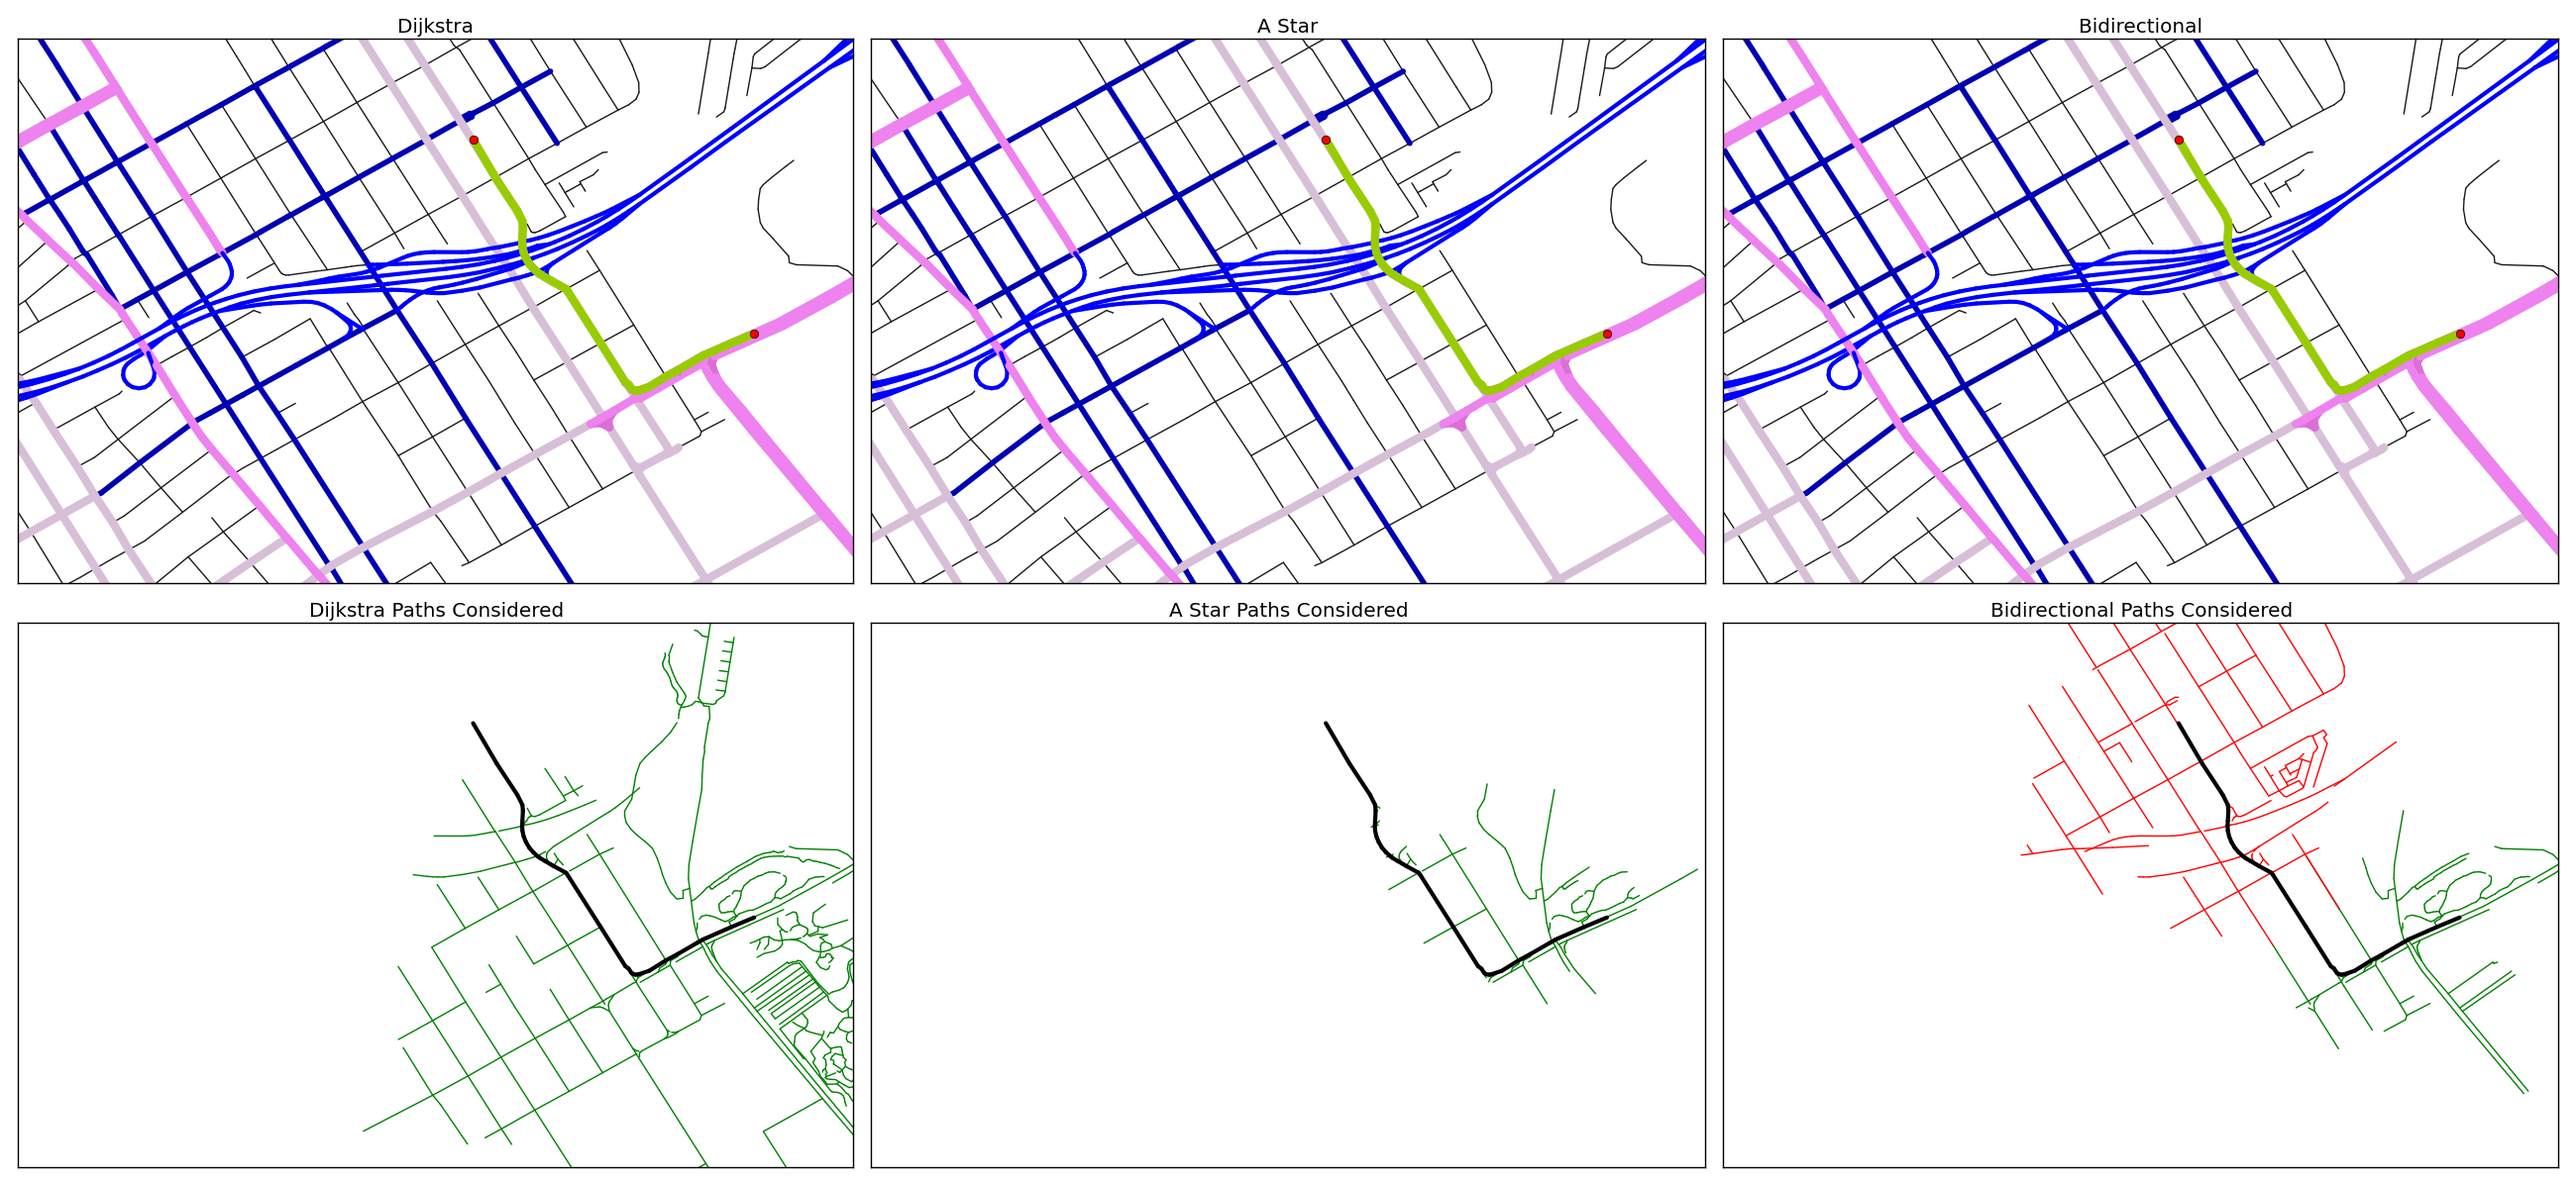
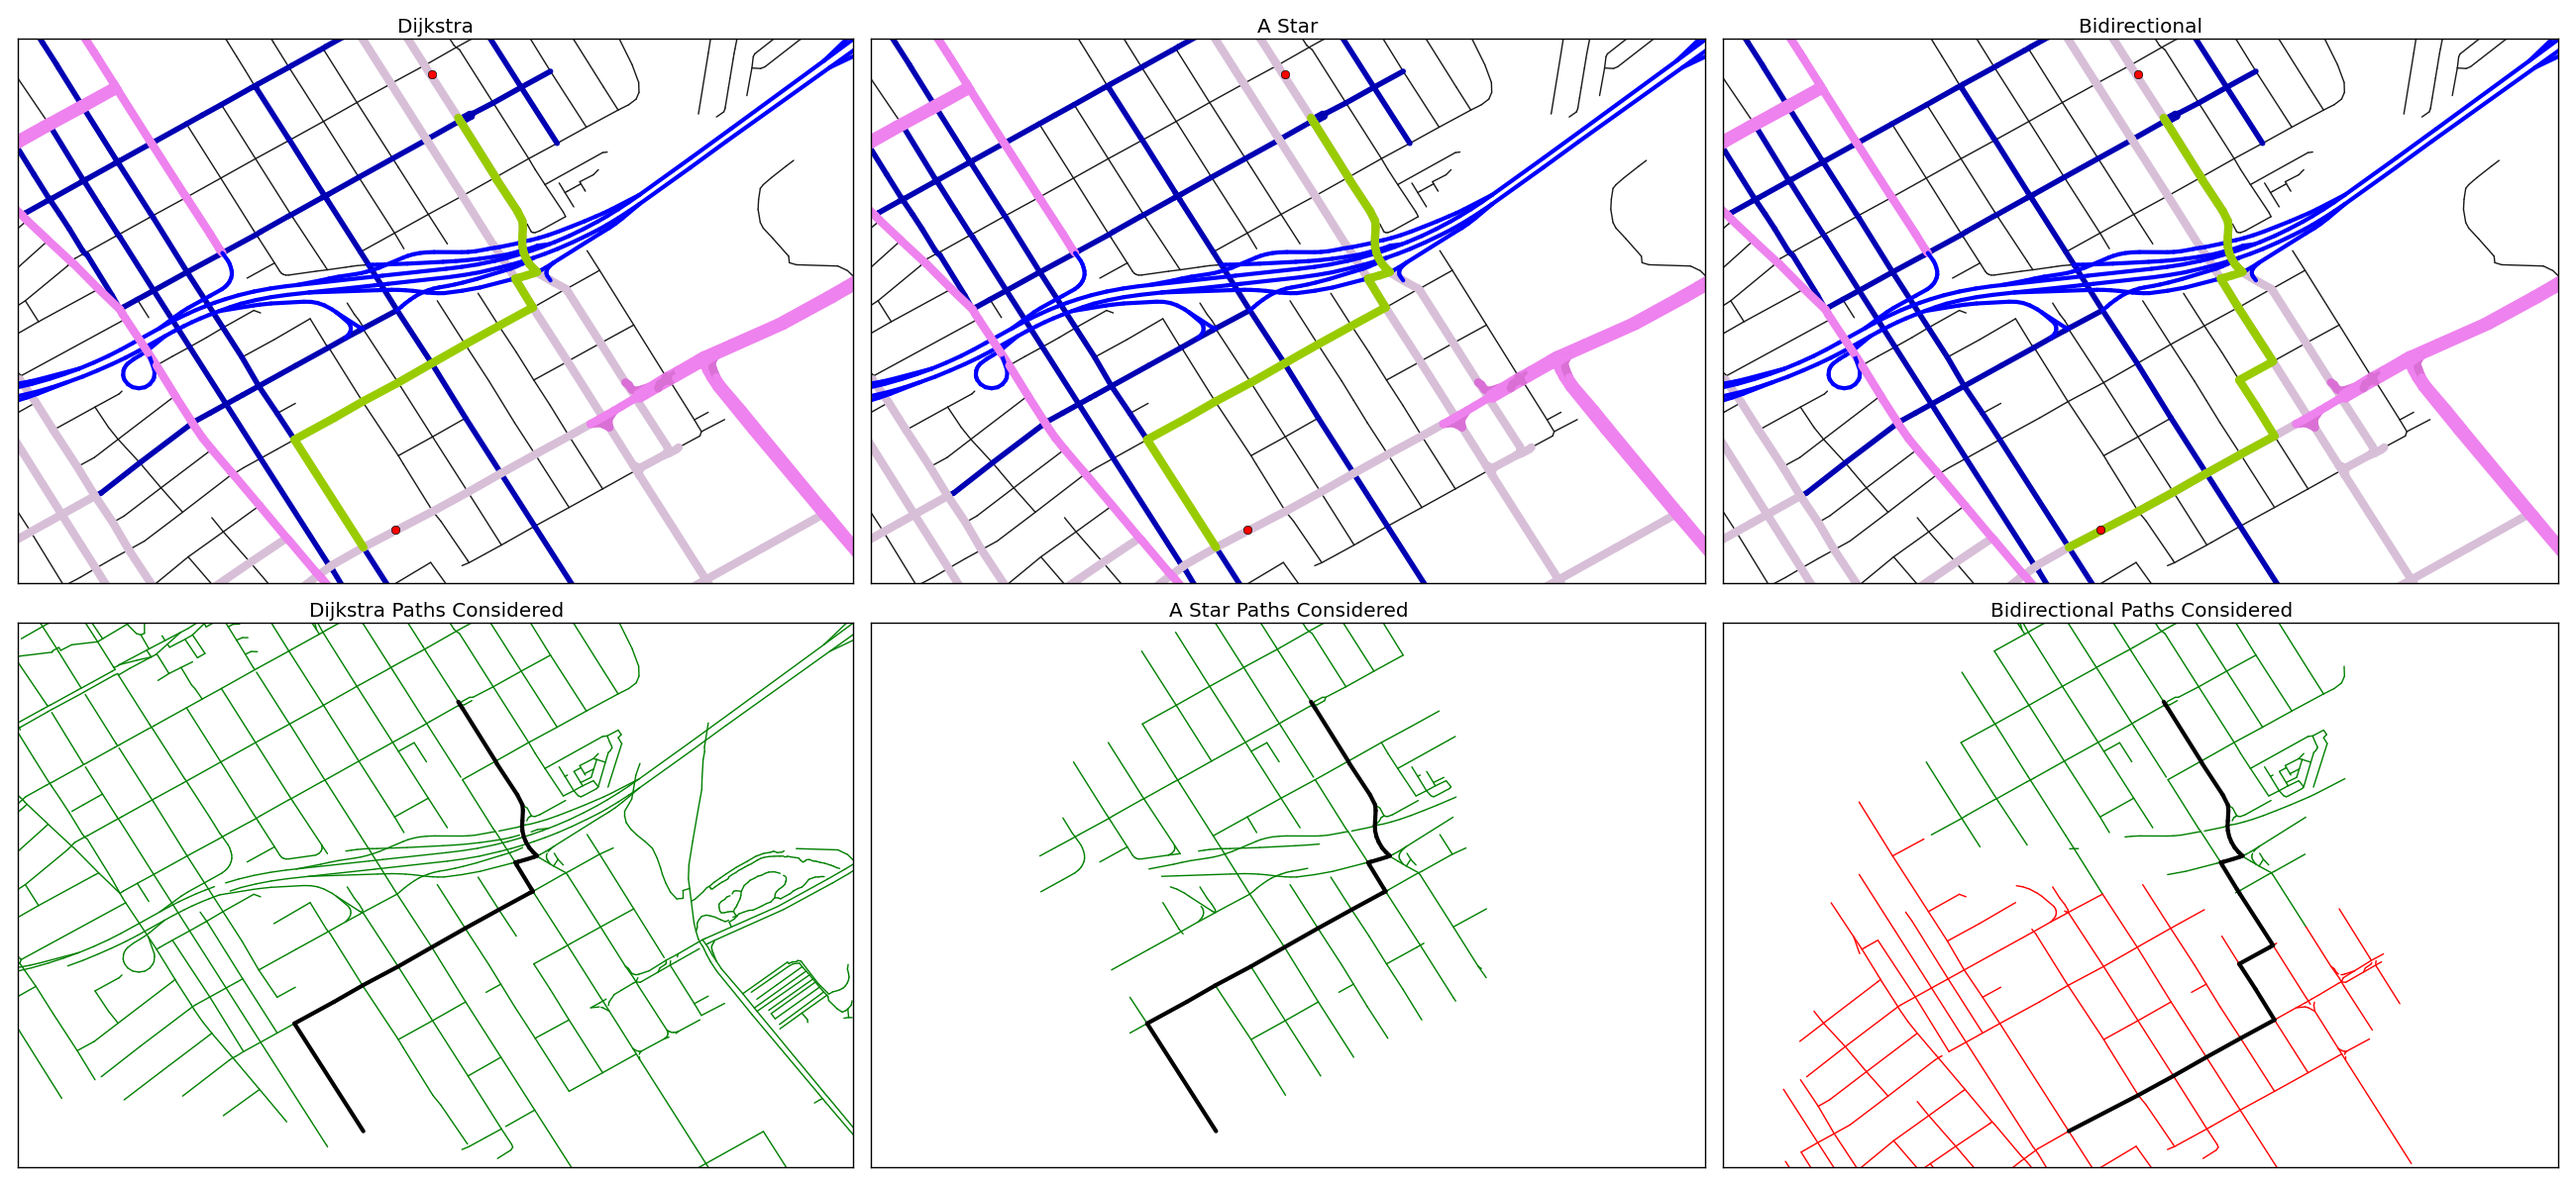
Updated readme.md

diff --git a/osm_to_networkx.py b/osm_to_networkx.py
@@ -483,13 +483,13 @@ class MatplotLibMap:
             x_to = node_to.lon
             y_to = node_to.lat
 
-            if i == 0:
-                x_from = self._mouse_click1[0]
-                y_from = self._mouse_click1[1]
-
-            if i == len(path) - 2:
-                x_to = self._mouse_click2[0]
-                y_to = self._mouse_click2[1]
+            # if i == 0:
+            #     x_from = self._mouse_click1[0]
+            #     y_from = self._mouse_click1[1]
+            #
+            # if i == len(path) - 2:
+            #     x_to = self._mouse_click2[0]
+            #     y_to = self._mouse_click2[1]
 
             plt.plot([x_from,x_to],[y_from,y_to],
                     marker          = '',
@@ -541,13 +541,13 @@ class MatplotLibMap:
             x_to = node_to.lon
             y_to = node_to.lat
 
-            if i == 0:
-                x_from = self._mouse_click1[0]
-                y_from = self._mouse_click1[1]
-
-            if i == len(path) - 2:
-                x_to = self._mouse_click2[0]
-                y_to = self._mouse_click2[1]
+            # if i == 0:
+            #     x_from = self._mouse_click1[0]
+            #     y_from = self._mouse_click1[1]
+            #
+            # if i == len(path) - 2:
+            #     x_to = self._mouse_click2[0]
+            #     y_to = self._mouse_click2[1]
 
             plt.plot([x_from,x_to],[y_from,y_to],
                     marker          = '',

diff --git a/README.md b/README.md
@@ -1,4 +1,6 @@
 # Shortest Path on OSM files
 Shortest path algorithms by loading OSM files and then clicking on two points to calculate the shortest paths.
+The snapping of points on matplotlib image isn't very accurate causing the nodes to snap to their nearest location. That
+is why you would see that the start / end points might not match the actual path shown.
 
 ![Alt text](/shortest_path.png?raw=true "Shortest Path Algorithms")
